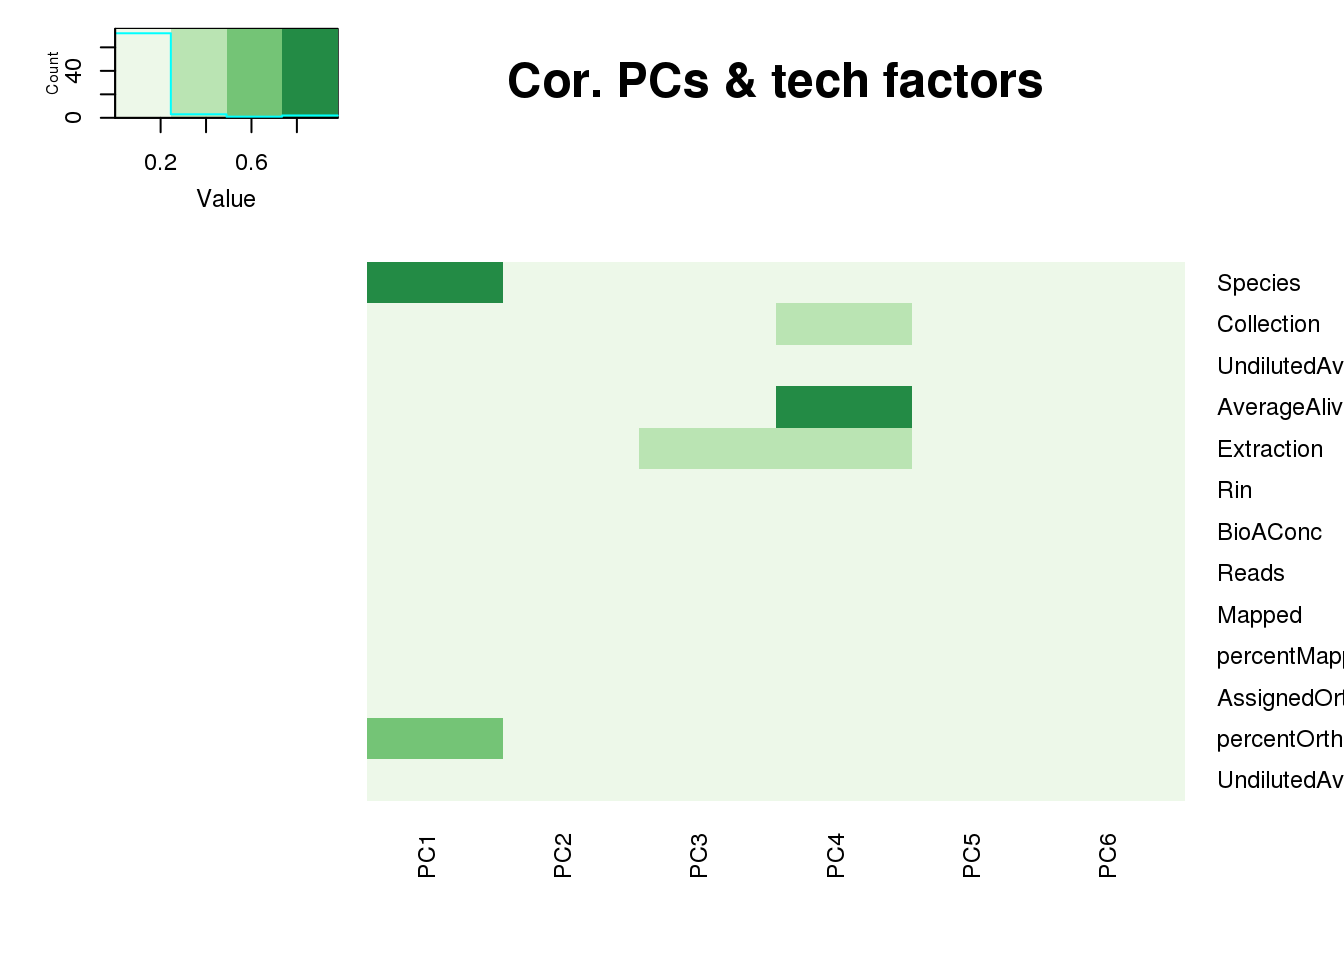
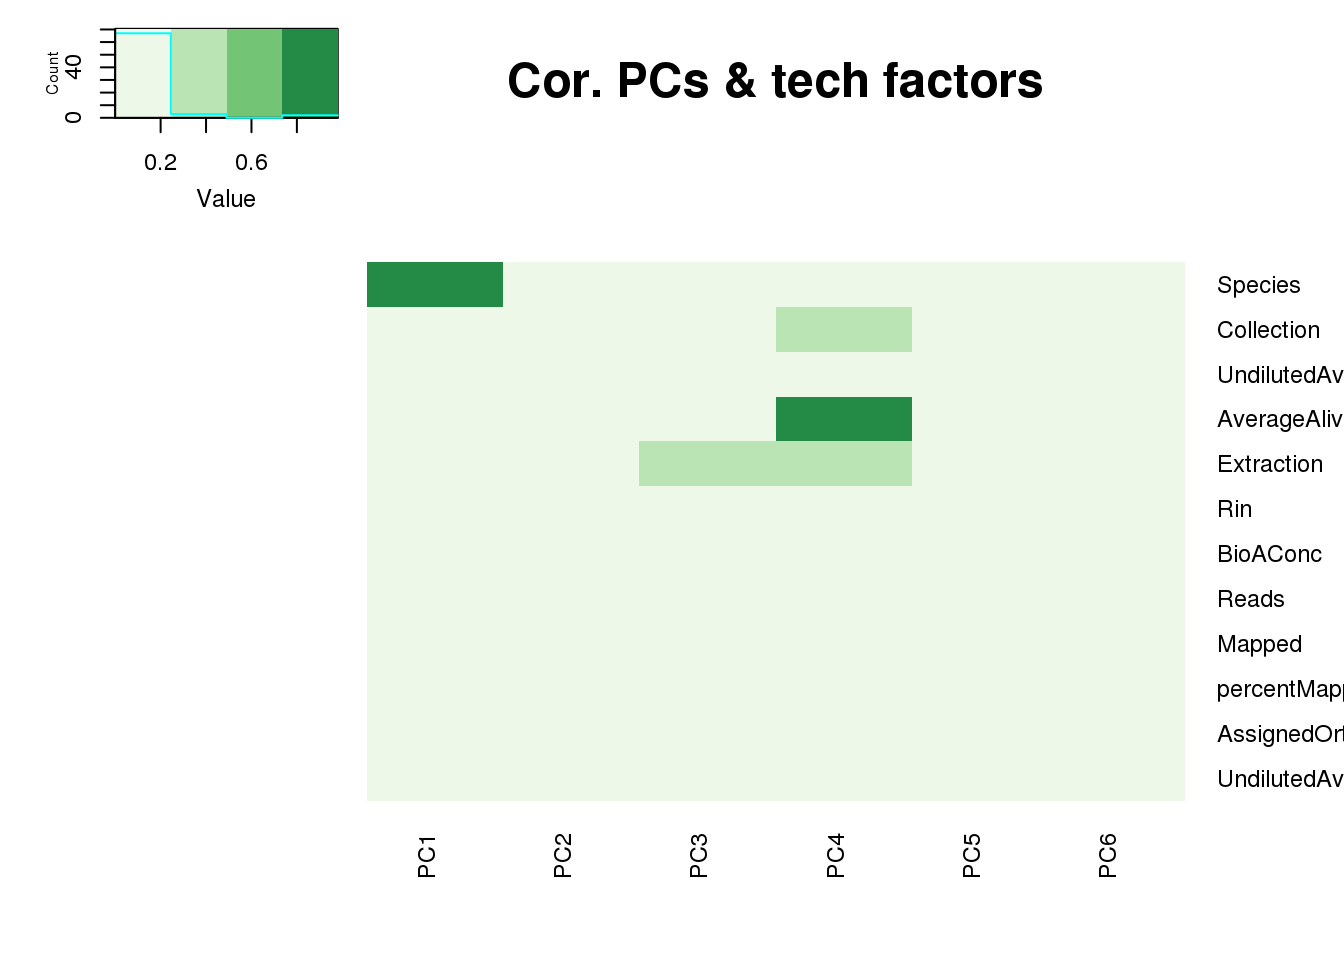
Build site.

diff --git a/docs/diffExpression.html b/docs/diffExpression.html
@@ -344,7 +344,7 @@ div.section {
 <div class="tab-content">
 <div id="summary" class="tab-pane fade in active">
 <p>
-<strong>Last updated:</strong> 2020-01-14
+<strong>Last updated:</strong> 2020-01-26
 </p>
 <p>
 <strong>Checks:</strong> <span class="glyphicon glyphicon-ok text-success" aria-hidden="true"></span> 7 <span class="glyphicon glyphicon-exclamation-sign text-danger" aria-hidden="true"></span> 0
@@ -435,10 +435,10 @@ This reproducible <a href="http://rmarkdown.rstudio.com">R Markdown</a> analysis
 <div class="panel panel-default">
 <div class="panel-heading">
 <p class="panel-title">
-<a data-toggle="collapse" data-parent="#workflowr-checks" href="#strongRepositoryversionstrongahrefhttpsgithubcombrimittlemanComparativeAPAtree3cce3da7f1e29f6354c8ba13cfbf5670d31b266ftargetblank3cce3daa"> <span class="glyphicon glyphicon-ok text-success" aria-hidden="true"></span> <strong>Repository version:</strong> <a href="https://github.com/brimittleman/Comparative_APA/tree/3cce3da7f1e29f6354c8ba13cfbf5670d31b266f" target="_blank">3cce3da</a> </a>
+<a data-toggle="collapse" data-parent="#workflowr-checks" href="#strongRepositoryversionstrongahrefhttpsgithubcombrimittlemanComparativeAPAtree9e489ef61843d19852847d6bb03a72d10ce280fftargetblank9e489efa"> <span class="glyphicon glyphicon-ok text-success" aria-hidden="true"></span> <strong>Repository version:</strong> <a href="https://github.com/brimittleman/Comparative_APA/tree/9e489ef61843d19852847d6bb03a72d10ce280ff" target="_blank">9e489ef</a> </a>
 </p>
 </div>
[2 lines of base64/hex data omitted]
 <div class="panel-body">
 <p>
 Great! You are using Git for version control. Tracking code development and connecting the code version to the results is critical for reproducibility. The version displayed above was the version of the Git repository at the time these results were generated. <br><br> Note that you need to be careful to ensure that all relevant files for the analysis have been committed to Git prior to generating the results (you can use <code>wflow_publish</code> or <code>wflow_git_commit</code>). workflowr only checks the R Markdown file, but you know if there are other scripts or data files that it depends on. Below is the status of the Git repository when the results were generated:
@@ -451,6 +451,7 @@ Ignored files:
     Ignored:    code/chimp_log/
     Ignored:    code/human_log/
     Ignored:    data/.DS_Store
+    Ignored:    data/mediation_prot/
     Ignored:    data/metadata_HCpanel.txt.sb-a5794dd2-i594qs/
 
 Untracked files:
@@ -475,6 +476,7 @@ Untracked files:
     Untracked:  code/._DiffSplice_gencode.sh
     Untracked:  code/._DiffSplice_removebad.sh
     Untracked:  code/._FindIntronForDomPAS.sh
+    Untracked:  code/._FindIntronForDomPAS_DF.sh
     Untracked:  code/._GetMAPQscore.py
     Untracked:  code/._GetSecondaryMap.py
     Untracked:  code/._Lift5perPAS.sh
@@ -482,10 +484,19 @@ Untracked files:
     Untracked:  code/._LiftOrthoPAS2chimp.sh
     Untracked:  code/._MapBadSamples.sh
     Untracked:  code/._PAS_ATTAAA.sh
+    Untracked:  code/._PAS_ATTAAA_df.sh
+    Untracked:  code/._PAS_seqExpanded.sh
     Untracked:  code/._PASsequences.sh
+    Untracked:  code/._PASsequences_DF.sh
+    Untracked:  code/._PlotNuclearUsagebySpecies.R
+    Untracked:  code/._PlotNuclearUsagebySpecies_DF.R
     Untracked:  code/._QuantMergedClusters.sh
     Untracked:  code/._ReverseLiftFilter.R
     Untracked:  code/._RunFixLeafCluster.sh
+    Untracked:  code/._RunNegMCMediation.sh
+    Untracked:  code/._RunNegMCMediationDF.sh
+    Untracked:  code/._RunPosMCMediationDF.err
+    Untracked:  code/._RunPosMCMediationDF.sh
     Untracked:  code/._Snakefile
     Untracked:  code/._SnakefilePAS
     Untracked:  code/._SnakefilePASfilt
@@ -498,6 +509,7 @@ Untracked files:
     Untracked:  code/._buildLeafviz_leadAnno.sh
     Untracked:  code/._buildStarIndex.sh
     Untracked:  code/._chimpChromprder.sh
+    Untracked:  code/._chooseSignalSite.py
     Untracked:  code/._cleanbed2saf.py
     Untracked:  code/._cluster.json
     Untracked:  code/._cluster2bed.py
@@ -508,6 +520,8 @@ Untracked files:
     Untracked:  code/._converBam2Junc.sh
     Untracked:  code/._converBam2Junc_removeBad.sh
     Untracked:  code/._extraSnakefiltpas
+    Untracked:  code/._extractPhyloReg.py
+    Untracked:  code/._extractPhyloRegGene.py
     Untracked:  code/._filter5percPAS.py
     Untracked:  code/._filterNumChroms.py
     Untracked:  code/._filterPASforMP.py
@@ -525,6 +539,8 @@ Untracked files:
     Untracked:  code/._liftJunctionFiles.sh
     Untracked:  code/._liftPAS19to38.sh
     Untracked:  code/._liftedchimpJunc2human.sh
+    Untracked:  code/._makeNuclearDapaplots.sh
+    Untracked:  code/._makeNuclearDapaplots_DF.sh
     Untracked:  code/._makeSamplyGroupsHuman_TvN.py
     Untracked:  code/._mapRNAseqhg19.sh
     Untracked:  code/._mapRNAseqhg19_newPipeline.sh
@@ -534,8 +550,12 @@ Untracked files:
     Untracked:  code/._mergeChimp3prime_inhg38.sh
     Untracked:  code/._mergedBam2BW.sh
     Untracked:  code/._nameClusters.py
+    Untracked:  code/._negativeMediation_montecarlo.R
+    Untracked:  code/._negativeMediation_montecarloDF.R
     Untracked:  code/._numMultimap.py
     Untracked:  code/._overlapapaQTLPAS.sh
+    Untracked:  code/._parseHg38.py
+    Untracked:  code/._postiveMediation_montecarlo_DF.R
     Untracked:  code/._prepareCleanLiftedFC_5perc4LC.py
     Untracked:  code/._prepareLeafvizAnno.sh
     Untracked:  code/._preparePAS4lift.py
@@ -553,6 +573,7 @@ Untracked files:
     Untracked:  code/._runCountNucleotides.sh
     Untracked:  code/._runFilterNumChroms.sh
     Untracked:  code/._runHumanDiffIso.sh
+    Untracked:  code/._runNuclearDiffIso_DF.sh
     Untracked:  code/._runNuclearDifffIso.sh
     Untracked:  code/._runTotalDiffIso.sh
     Untracked:  code/._run_chimpverifybam.sh
@@ -574,7 +595,9 @@ Untracked files:
     Untracked:  code/._submit-snakemakefiltPAS-chimp.sh
     Untracked:  code/._submit-snakemakefiltPAS-human.sh
     Untracked:  code/._subset_diffisopheno_Nuclear_HvC.py
+    Untracked:  code/._subset_diffisopheno_Nuclear_HvC_DF.py
     Untracked:  code/._subset_diffisopheno_Total_HvC.py
+    Untracked:  code/._threeprimeOrthoFC.sh
     Untracked:  code/._transcriptDTplotsNuclear.sh
     Untracked:  code/._verifyBam4973.sh
     Untracked:  code/._verifyBam4973inHuman.sh
@@ -612,6 +635,7 @@ Untracked files:
     Untracked:  code/FindIntronForDomPAS.err
     Untracked:  code/FindIntronForDomPAS.out
     Untracked:  code/FindIntronForDomPAS.sh
+    Untracked:  code/FindIntronForDomPAS_DF.sh
     Untracked:  code/GencodeDiffSplice.err
     Untracked:  code/GencodeDiffSplice.out
     Untracked:  code/GetMAPQscore.py
@@ -649,9 +673,20 @@ Untracked files:
     Untracked:  code/PAS_ATTAAA.err
     Untracked:  code/PAS_ATTAAA.out
     Untracked:  code/PAS_ATTAAA.sh
+    Untracked:  code/PAS_ATTAAADF.err
+    Untracked:  code/PAS_ATTAAADF.out
+    Untracked:  code/PAS_ATTAAA_df.sh
+    Untracked:  code/PAS_seqExpanded.sh
     Untracked:  code/PAS_sequence.err
     Untracked:  code/PAS_sequence.out
+    Untracked:  code/PAS_sequenceDF.err
+    Untracked:  code/PAS_sequenceDF.out
+    Untracked:  code/PASexpanded_sequenceDF.err
+    Untracked:  code/PASexpanded_sequenceDF.out
     Untracked:  code/PASsequences.sh
+    Untracked:  code/PASsequences_DF.sh
+    Untracked:  code/PlotNuclearUsagebySpecies.R
+    Untracked:  code/PlotNuclearUsagebySpecies_DF.R
     Untracked:  code/QuantMergeClusters
     Untracked:  code/QuantMergeClusters.err
     Untracked:  code/QuantMergeClusters.out
@@ -662,6 +697,18 @@ Untracked files:
     Untracked:  code/RunFixCluster.err
     Untracked:  code/RunFixCluster.out
     Untracked:  code/RunFixLeafCluster.sh
+    Untracked:  code/RunNegMCMediation.err
+    Untracked:  code/RunNegMCMediation.sh
+    Untracked:  code/RunNegMCMediationDF.err
+    Untracked:  code/RunNegMCMediationDF.out
+    Untracked:  code/RunNegMCMediationDF.sh
+    Untracked:  code/RunNegMCMediationr.out
+    Untracked:  code/RunPosMCMediation.err
+    Untracked:  code/RunPosMCMediation.sh
+    Untracked:  code/RunPosMCMediationDF.err
+    Untracked:  code/RunPosMCMediationDF.out
+    Untracked:  code/RunPosMCMediationDF.sh
+    Untracked:  code/RunPosMCMediationr.out
     Untracked:  code/SAF215upbed_gen.py
     Untracked:  code/Snakefile
     Untracked:  code/SnakefilePAS
@@ -698,6 +745,7 @@ Untracked files:
     Untracked:  code/chimpChromprder.sh
     Untracked:  code/chooseAnno2Bed.py
     Untracked:  code/chooseAnno2SAF.py
+    Untracked:  code/chooseSignalSite.py
     Untracked:  code/chromOrder.err
     Untracked:  code/chromOrder.out
     Untracked:  code/classifyLeafviz.err
@@ -717,6 +765,8 @@ Untracked files:
     Untracked:  code/convertNumeric.py
     Untracked:  code/environment.yaml
     Untracked:  code/extraSnakefiltpas
+    Untracked:  code/extractPhyloReg.py
+    Untracked:  code/extractPhyloRegGene.py
     Untracked:  code/filter5perc.R
     Untracked:  code/filter5percPAS.py
     Untracked:  code/filter5percPheno.py
@@ -749,6 +799,8 @@ Untracked files:
     Untracked:  code/humanFiles
     Untracked:  code/intersectAnno.err
     Untracked:  code/intersectAnno.out
+    Untracked:  code/intersectAnnoExt.err
+    Untracked:  code/intersectAnnoExt.out
     Untracked:  code/intersectLiftedPAS.sh
     Untracked:  code/leafcutter_merge_regtools_redo.py
     Untracked:  code/liftJunctionFiles.sh
@@ -758,6 +810,12 @@ Untracked files:
     Untracked:  code/log/
     Untracked:  code/make5percPeakbed.py
     Untracked:  code/makeFileID.py
+    Untracked:  code/makeNuclearDapaplots.sh
+    Untracked:  code/makeNuclearDapaplots_DF.sh
+    Untracked:  code/makeNuclearPlots.err
+    Untracked:  code/makeNuclearPlots.out
+    Untracked:  code/makeNuclearPlotsDF.err
+    Untracked:  code/makeNuclearPlotsDF.out
     Untracked:  code/makePheno.py
     Untracked:  code/makeSamplyGroupsChimp_TvN.py
     Untracked:  code/makeSamplyGroupsHuman_TvN.py
@@ -782,14 +840,21 @@ Untracked files:
     Untracked:  code/mergedbam2bw.out
     Untracked:  code/nameClusters.py
     Untracked:  code/namePeaks.py
+    Untracked:  code/negativeMediation_montecarlo.R
+    Untracked:  code/negativeMediation_montecarloDF.R
     Untracked:  code/nuclearTranscriptDTplot.err
     Untracked:  code/nuclearTranscriptDTplot.out
     Untracked:  code/numMultimap.py
     Untracked:  code/overlapPAS.err
     Untracked:  code/overlapPAS.out
     Untracked:  code/overlapapaQTLPAS.sh
+    Untracked:  code/overlapapaQTLPAS_extended.sh
+    Untracked:  code/overlapapaQTLPAS_samples.sh
+    Untracked:  code/parseHg38.py
     Untracked:  code/peak2PAS.py
     Untracked:  code/pheno2countonly.R
+    Untracked:  code/postiveMediation_montecarlo.R
+    Untracked:  code/postiveMediation_montecarlo_DF.R
     Untracked:  code/prepareAnnoLeafviz.err
     Untracked:  code/prepareAnnoLeafviz.out
     Untracked:  code/prepareCleanLiftedFC_5perc4LC.py
@@ -825,6 +890,7 @@ Untracked files:
     Untracked:  code/runCountNucleotides_pantro6.sh
     Untracked:  code/runFilterNumChroms.sh
     Untracked:  code/runHumanDiffIso.sh
+    Untracked:  code/runNuclearDiffIso_DF.sh
     Untracked:  code/runNuclearDifffIso.sh
     Untracked:  code/runTotalDiffIso.sh
     Untracked:  code/run_Chimpleafcutter_ds.err
@@ -835,6 +901,8 @@ Untracked files:
     Untracked:  code/run_Humanleafcutter_ds.out
     Untracked:  code/run_Nuclearleafcutter_ds.err
     Untracked:  code/run_Nuclearleafcutter_ds.out
+    Untracked:  code/run_Nuclearleafcutter_dsDF.err
+    Untracked:  code/run_Nuclearleafcutter_dsDF.out
     Untracked:  code/run_Totalleafcutter_ds.err
     Untracked:  code/run_Totalleafcutter_ds.out
     Untracked:  code/run_chimpverifybam.sh
@@ -877,8 +945,12 @@ Untracked files:
     Untracked:  code/subset_diffisopheno_Chimp_tvN.py
     Untracked:  code/subset_diffisopheno_Huma_tvN.py
     Untracked:  code/subset_diffisopheno_Nuclear_HvC.py
+    Untracked:  code/subset_diffisopheno_Nuclear_HvC_DF.py
     Untracked:  code/subset_diffisopheno_Total_HvC.py
     Untracked:  code/test
+    Untracked:  code/threeprimeOrthoFC.out
+    Untracked:  code/threeprimeOrthoFC.sh
+    Untracked:  code/threeprimeOrthoFCcd.err
     Untracked:  code/transcriptDTplotsNuclear.sh
     Untracked:  code/transcriptDTplotsTotal.sh
     Untracked:  code/verifyBam4973.sh
@@ -925,14 +997,17 @@ Untracked files:
     Untracked:  data/._~$metadata_HCpanel.xlsx
     Untracked:  data/._.xlsx
     Untracked:  data/CompapaQTLpas/
+    Untracked:  data/DNDS/
     Untracked:  data/DTmatrix/
     Untracked:  data/DiffExpression/
     Untracked:  data/DiffIso_Nuclear/
+    Untracked:  data/DiffIso_Nuclear_DF/
     Untracked:  data/DiffIso_Total/
     Untracked:  data/DiffSplice/
     Untracked:  data/DiffSplice_liftedJunc/
     Untracked:  data/DiffSplice_removeBad/
     Untracked:  data/DominantPAS/
+    Untracked:  data/DominantPAS_DF/
     Untracked:  data/EvalPantro5/
     Untracked:  data/HC_filenames.txt
     Untracked:  data/HC_filenames.xlsx
@@ -943,14 +1018,19 @@ Untracked files:
     Untracked:  data/MapStats/
     Untracked:  data/NormalizedClusters/
     Untracked:  data/NuclearHvC/
+    Untracked:  data/NuclearHvC_DF/
     Untracked:  data/OppositeSpeciesMap.txt
     Untracked:  data/OppositeSpeciesMap.xlsx
+    Untracked:  data/OverlapBenchmark/
     Untracked:  data/PAS/
+    Untracked:  data/PAS_doubleFilter/
     Untracked:  data/Peaks_5perc/
     Untracked:  data/Pheno_5perc/
+    Untracked:  data/Pheno_5perc_DF_nuclear/
     Untracked:  data/Pheno_5perc_nuclear/
     Untracked:  data/Pheno_5perc_nuclear_old/
     Untracked:  data/Pheno_5perc_total/
+    Untracked:  data/PhyloP/
     Untracked:  data/RNASEQ_metadata.txt
     Untracked:  data/RNASEQ_metadata_2Removed.txt
     Untracked:  data/RNASEQ_metadata_2Removed.xlsx
@@ -958,15 +1038,22 @@ Untracked files:
     Untracked:  data/RNASEQ_metadata_stranded.txt.sb-e4bf31f0-ZGnGgl/
     Untracked:  data/RNASEQ_metadata_stranded.xlsx
     Untracked:  data/SignalSites/
+    Untracked:  data/SignalSites_doublefilter/
+    Untracked:  data/Threeprime2Ortho/
     Untracked:  data/TotalHvC/
     Untracked:  data/TwoBadSampleAnalysis/
     Untracked:  data/Wang_ribo/
+    Untracked:  data/apaQTLGenes/
     Untracked:  data/chainFiles/
     Untracked:  data/cleanPeaks_anno/
     Untracked:  data/cleanPeaks_byspecies/
     Untracked:  data/cleanPeaks_lifted/
+    Untracked:  data/files4viz_nuclear/
+    Untracked:  data/files4viz_nuclear_DF/
     Untracked:  data/leafviz/
     Untracked:  data/liftover_files/
+    Untracked:  data/mediation/
+    Untracked:  data/mediation_DF/
     Untracked:  data/metadata_HCpanel.txt
     Untracked:  data/metadata_HCpanel.xlsx
     Untracked:  data/metadata_HCpanel_frompantro5.txt
@@ -980,10 +1067,17 @@ Untracked files:
     Untracked:  projectNotes.Rmd
 
 Unstaged changes:
+    Modified:   analysis/ExploredAPA.Rmd
     Modified:   analysis/OppositeMap.Rmd
     Modified:   analysis/annotationInfo.Rmd
+    Modified:   analysis/comp2apaQTLPAS.Rmd
+    Modified:   analysis/correlationPhenos.Rmd
+    Modified:   analysis/dAPAandapaQTL_DF.Rmd
+    Modified:   analysis/establishCutoffs.Rmd
     Modified:   analysis/investigatePantro5.Rmd
     Modified:   analysis/multiMap.Rmd
+    Modified:   analysis/speciesSpecific.Rmd
+    Modified:   analysis/speciesSpecific_DF.Rmd
 
 </code></pre>
 <p>
@@ -1022,6 +1116,40 @@ Message
 </tr>
 </thead>
 <tbody>
+<tr>
+<td>
+Rmd
+</td>
+<td>
+<a href="https://github.com/brimittleman/Comparative_APA/blob/9e489ef61843d19852847d6bb03a72d10ce280ff/analysis/diffExpression.Rmd" target="_blank">9e489ef</a>
+</td>
+<td>
+brimittleman
+</td>
+<td>
+2020-01-26
+</td>
+<td>
+update plot for CM
+</td>
+</tr>
+<tr>
+<td>
+html
+</td>
+<td>
+<a href="https://rawcdn.githack.com/brimittleman/Comparative_APA/4f5d4929bd9915b744db58348b0e6abd8dbf17e9/docs/diffExpression.html" target="_blank">4f5d492</a>
+</td>
+<td>
+brimittleman
+</td>
+<td>
+2020-01-14
+</td>
+<td>
+Build site.
+</td>
+</tr>
 <tr>
 <td>
 Rmd
@@ -1628,12 +1756,12 @@ add diff expression and diff splicing
 <pre><code>This is workflowr version 1.5.0
 Run ?workflowr for help getting started</code></pre>
 <pre class="r"><code>library(tidyverse)</code></pre>
-<pre><code>── Attaching packages ───────────────────────────────────────────────────────────────────────────────────────────────────── tidyverse 1.2.1 ──</code></pre>
+<pre><code>── Attaching packages ─────────────────────────────────────────────────────────────────────────────────────────────────────────────────────────────────────── tidyverse 1.2.1 ──</code></pre>
 <pre><code>✔ ggplot2 3.1.1       ✔ purrr   0.3.2  
 ✔ tibble  2.1.1       ✔ dplyr   0.8.0.1
 ✔ tidyr   0.8.3       ✔ stringr 1.3.1  
 ✔ readr   1.3.1       ✔ forcats 0.3.0  </code></pre>
-<pre><code>── Conflicts ──────────────────────────────────────────────────────────────────────────────────────────────────────── tidyverse_conflicts() ──
+<pre><code>── Conflicts ────────────────────────────────────────────────────────────────────────────────────────────────────────────────────────────────────────── tidyverse_conflicts() ──
 ✖ dplyr::filter() masks stats::filter()
 ✖ dplyr::lag()    masks stats::lag()</code></pre>
 <pre class="r"><code>library(&quot;scales&quot;)</code></pre>
@@ -5015,7 +5143,7 @@ brimittleman
 <pre class="r"><code>x.pca &lt;- pca_genes
 
 tech_factors &lt;- metaData
-tech_factors_sum &lt;- tech_factors[,c(2:15)] %&gt;% dplyr::select(-CollectionDate)
+tech_factors_sum &lt;- tech_factors[,c(2:15)] %&gt;% dplyr::select(-CollectionDate,-percentOrtho)
 
 p_comps &lt;- 1:6
 pc_cov_cor &lt;- matrix(nrow = ncol(tech_factors_sum), ncol = length(p_comps),
